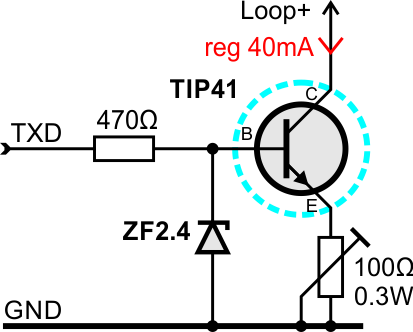
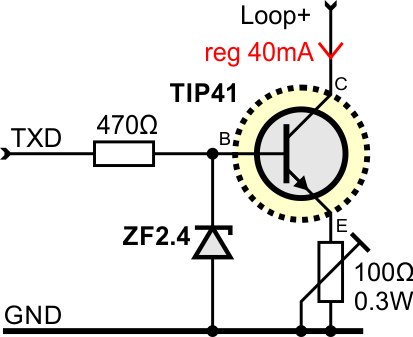
Update documentation

diff --git a/README.md b/README.md
@@ -7,7 +7,7 @@ One part of the project is the hardware to adapt the current loop "TW39" to mode
 
 The other part is the Python software to send and receive the serial data (50 baud, 5 data-bits) and decode the "CCITT-2" character set (also called "Baudot-Murray-Code" or "ITA2") to ANSI.
 
-With the characters arrived in the PC/RPi the data can be routed to I-Telex or IRC. The telex can also be (miss-) used as printer or keyboard.
+With the characters arrived in the PC/RPi the data can be routed to i-Telex, eMail or IRC. The telex can also be (miss-) used as printer or keyboard.
 
 ## Electronic
 
@@ -21,6 +21,8 @@ The current loop is specified in "TW39".
 
 To use a Telex as an USB-device you can use an USB-serial-converter based on a CH340 chip (other chips from FTDI and Prolofic don't work at 50 baud, 5 data-bits, 1.5 stop-bits).
 
+The commutate circuit (drawn in cyan) is optional and only needed when the telex is using a FSG. Without a FSG the cyan area can be removed.
+
 ![TelexOverview](TelexCH340.png)
 
 To use router and FSG functionality the adapter hardware can be connected directly to a Raspberry Pi.
@@ -29,7 +31,7 @@ To use router and FSG functionality the adapter hardware can be connected direct
 
 ### Current Source and Regulator
 
-To simplify the device an adjustable DC/DC boost converter board (from China) is used to get a voltage of 15...24V. The voltage regulator LM317 is used as a fixed current source to get the 40mA. The ML317 works as a linear regulator and must be mounted on a heat sink.
+To simplify the device an adjustable DC/DC boost converter board (from China) is used to get a voltage of 20...30V. The voltage regulator LM317 is used as a fixed current source to get the 40mA. The LM317 works as a linear regulator and must be mounted on a heat sink.
 
 ![TelexCurrent](TelexCurrent.png)
 
@@ -53,11 +55,15 @@ To get data from the Telex the current has to be observed. A current of 40mA mea
 
 ![TelexRXD|small](TelexRXD.png)
 
-The RTS line is used to inhibit loopback on transmitting and can alternatively connected to GND if loopback is handled in software
-
 As opto-coupler a LTV817 or PC817 is recommended. All other coupler with coupling factor > 50% should also work.
 
 The receiver has a voltage drop on the current loop of about 2V.
+
+### Telex Commutate (Option)
+
+To signal the FSG a connection the voltage is pole changed with a relais.
+
+![TelexCommutate|small](TelexCommutate.png)
 
 ## Software
 
@@ -74,3 +80,10 @@ With the Python library "PySerial" all necessary settings can be done to handle 
 The build in UART of the RPi can’t handle 50 baud.
 
 The correct timing can be formed jitter-free with the library “PiGPIO”. Receiving can be handled by asynchronous callbacks implemented in this library. With this also a Linux based computer like the RPi can handle precise and reliable timings.
+
+## Additional Information
+
+BC337: ![](BC337.png)
+
+TIP41: ![](TIP41.png)
+
